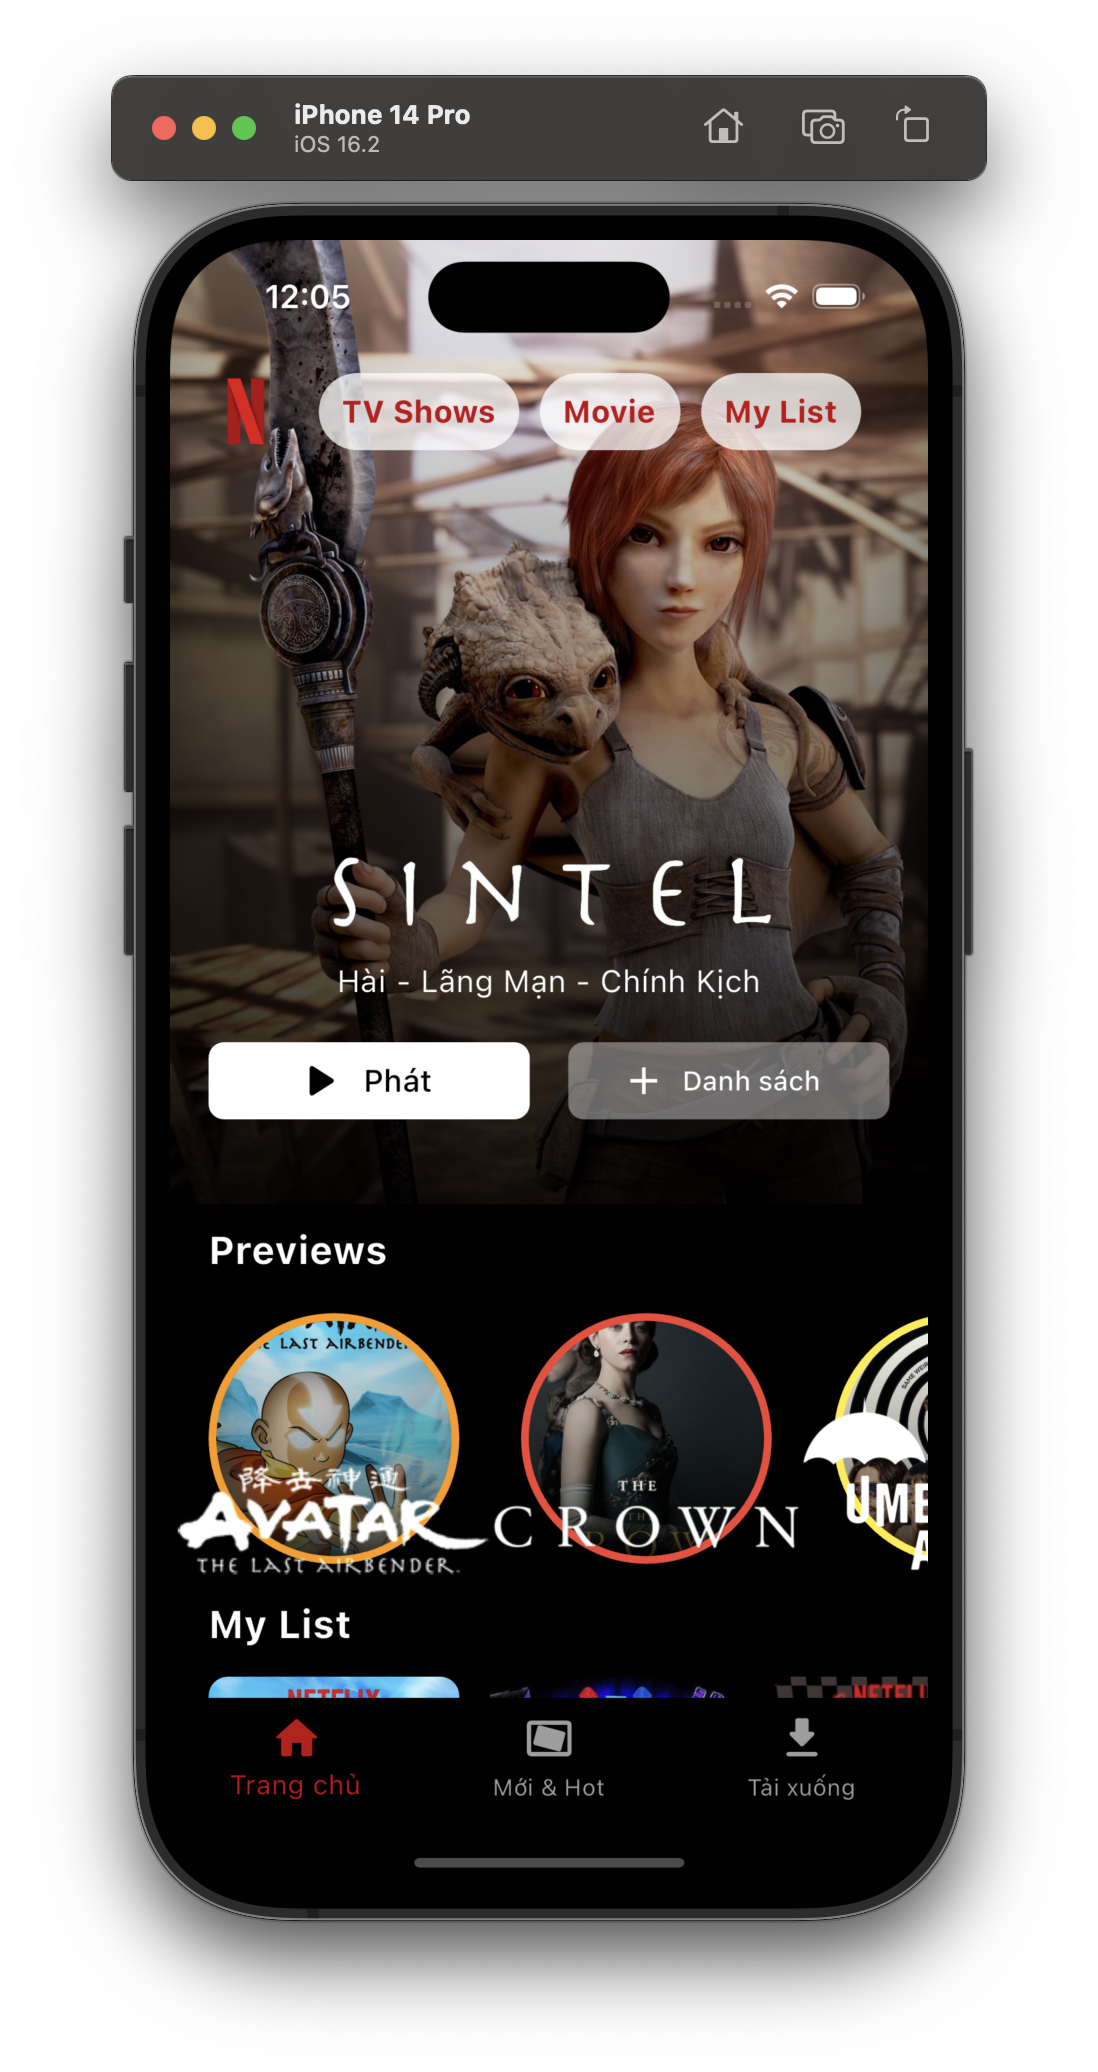
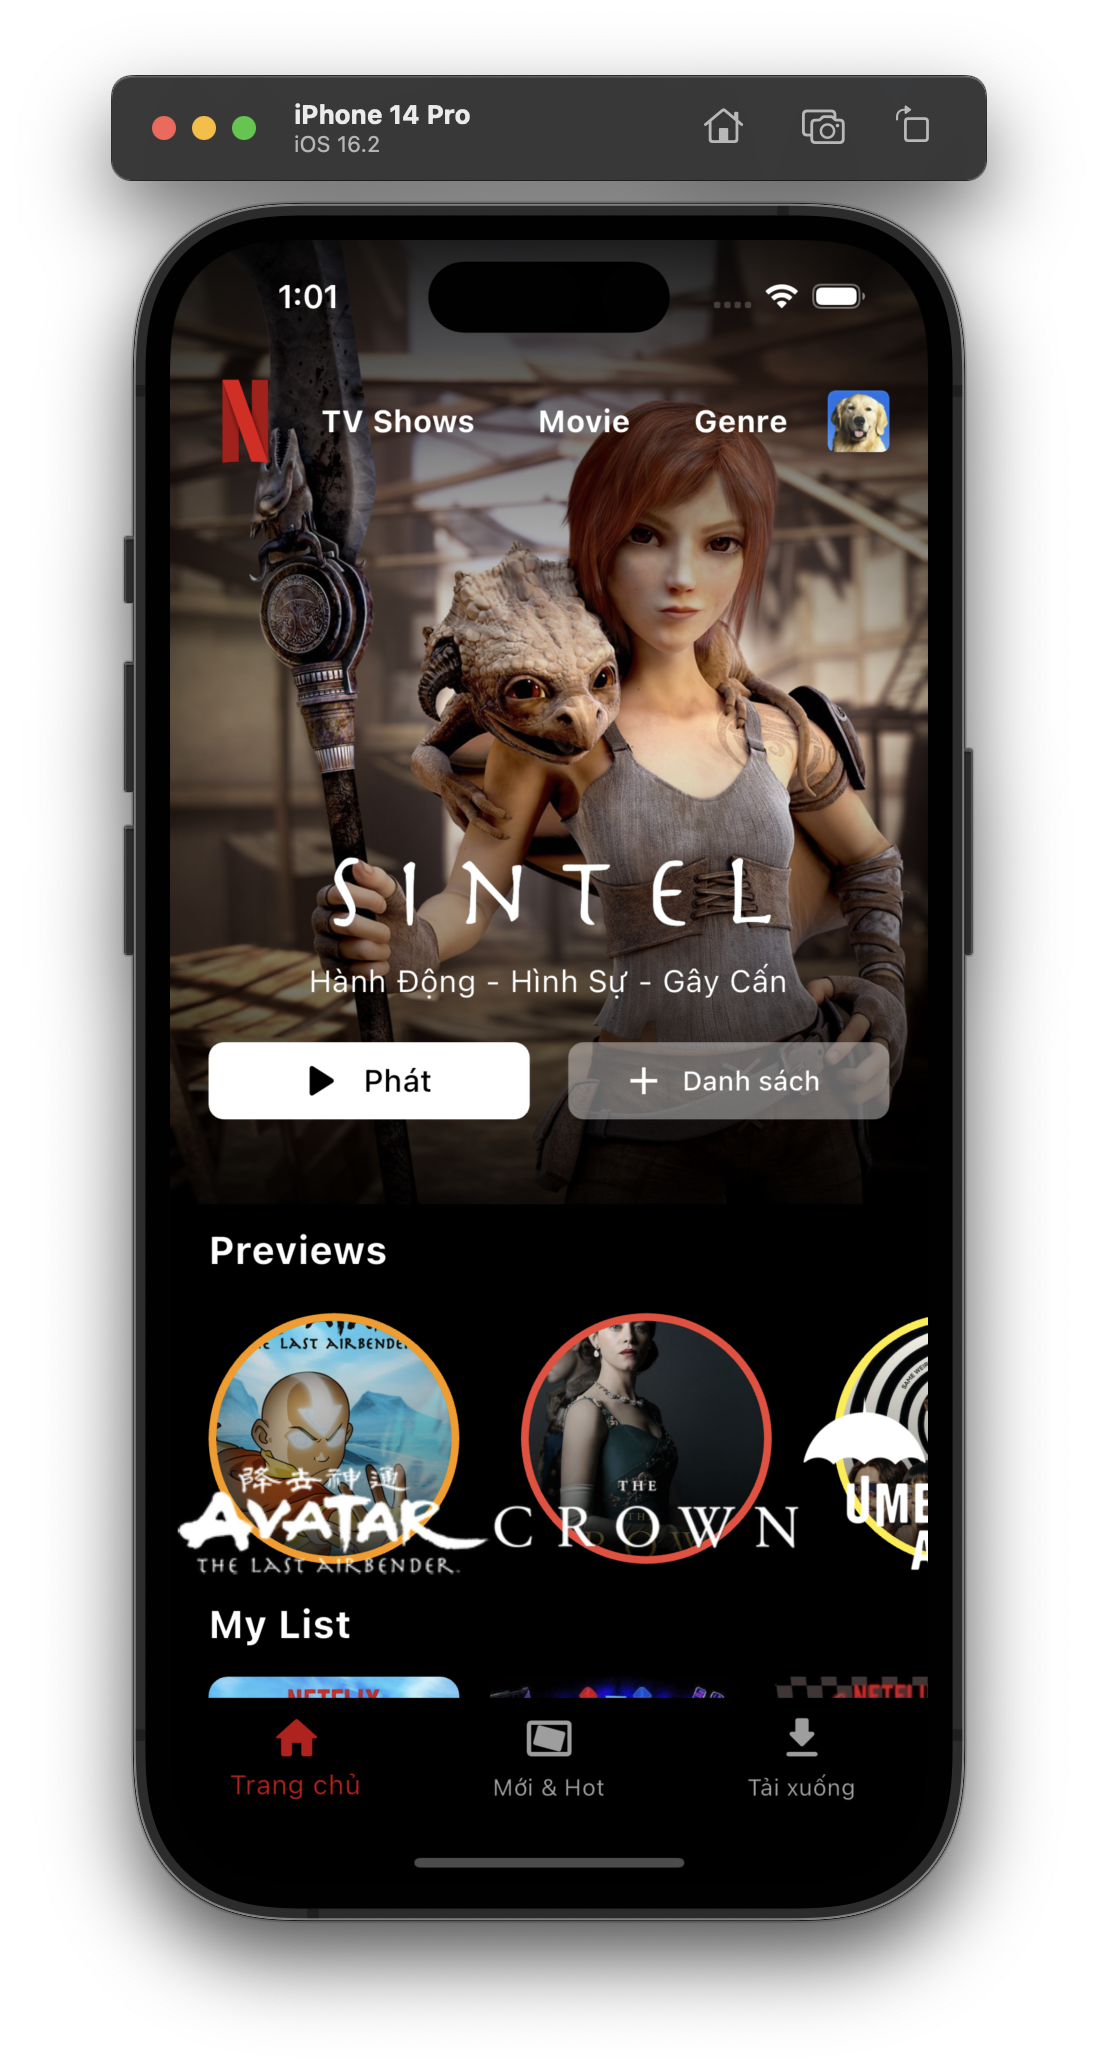
fix bug & UI

Changed region(s): [[0.1548, 0.0927, 0.867, 0.5251]]

diff --git a/lib/widgets/custom_app_bar.dart b/lib/widgets/custom_app_bar.dart
@@ -12,17 +12,14 @@ class CustomAppBar extends StatelessWidget {
   @override
   Widget build(BuildContext context) {
     return Container(
-      color:
-          Colors.black.withOpacity((scrollOffset / 350).clamp(0, 1).toDouble()),
-      padding: const EdgeInsets.symmetric(vertical: 10, horizontal: 24),
+      color: Colors.black.withOpacity(
+        (scrollOffset / 350).clamp(0, 1).toDouble(),
+      ),
+      padding: const EdgeInsets.symmetric(vertical: 10, horizontal: 20),
       child: SafeArea(
         child: Row(
           children: [
-            Image.asset(
-              Assets.netflixSymbol,
-              height: 80,
-            ),
-            const SizedBox(width: 12),
+            Image.asset(Assets.netflixSymbol),
             Expanded(
               child: Row(
                 mainAxisAlignment: MainAxisAlignment.spaceEvenly,
@@ -30,8 +27,17 @@ class CustomAppBar extends StatelessWidget {
                 children: [
                   _AppBarButton('TV Shows', scrollOffset, () {}),
                   _AppBarButton('Movie', scrollOffset, () {}),
-                  _AppBarButton('My List', scrollOffset, () {}),
+                  _AppBarButton('Genre', scrollOffset, () {}),
                 ],
+              ),
+            ),
+            ClipRRect(
+              borderRadius: BorderRadius.circular(4),
+              clipBehavior: Clip.antiAlias,
+              child: Image.network(
+                'https://i.imgur.com/6ZIfuJG.png',
+                width: 32,
+                height: 32,
               ),
             ),
           ],
@@ -54,14 +60,13 @@ class _AppBarButton extends StatelessWidget {
       height: 40,
       child: TextButton(
         onPressed: onTap,
-        style: TextButton.styleFrom(
-          backgroundColor: Colors.white.withOpacity(
-            1 - (scrollOffset / 350).clamp(0.25, 1).toDouble(),
-          ),
-        ),
+        style: TextButton.styleFrom(foregroundColor: Colors.white),
         child: Text(
           text,
-          style: const TextStyle(fontSize: 16, fontWeight: FontWeight.bold),
+          style: const TextStyle(
+            fontSize: 16,
+            fontWeight: FontWeight.bold,
+          ),
         ),
       ),
     );

diff --git a/lib/screens/auth/sign_in.dart b/lib/screens/auth/sign_in.dart
@@ -53,6 +53,7 @@ class _SignInState extends State<SignInScreen> {
         ScaffoldMessenger.of(context).showSnackBar(
           SnackBar(
             content: Text(error.message),
+            behavior: SnackBarBehavior.floating,
           ),
         );
       }
@@ -76,6 +77,7 @@ class _SignInState extends State<SignInScreen> {
 
   @override
   void dispose() {
+    _emailController.dispose();
     _passwordController.dispose();
     super.dispose();
   }
@@ -92,6 +94,7 @@ class _SignInState extends State<SignInScreen> {
             mainAxisSize: MainAxisSize.min,
             children: [
               TextFormField(
+                controller: _emailController,
                 decoration: const InputDecoration(
                   filled: true,
                   fillColor: Color.fromARGB(255, 51, 51, 51),
@@ -243,6 +246,9 @@ class _PasswordTextFieldState extends State<_PasswordTextField> {
       validator: (value) {
         if (value == null || value.isEmpty) {
           return 'Bạn chưa nhập Mật khẩu';
+        }
+        if (value.length < 6) {
+          return 'Mật khẩu gồm 6 ký tự trở lên.';
         }
         return null;
       },

diff --git a/lib/screens/auth/sign_up.dart b/lib/screens/auth/sign_up.dart
@@ -12,6 +12,7 @@ class SignUpScreen extends StatefulWidget {
 class _SignInState extends State<SignUpScreen> {
   final _formKey = GlobalKey<FormState>();
 
+  final _usernameControllber = TextEditingController();
   final _emailController = TextEditingController();
   final _passwordController = TextEditingController();
 
@@ -76,6 +77,7 @@ class _SignInState extends State<SignUpScreen> {
 
   @override
   void dispose() {
+    _usernameControllber.dispose();
     _emailController.dispose();
     _passwordController.dispose();
     super.dispose();
@@ -209,12 +211,16 @@ class _PasswordTextFieldState extends State<_PasswordTextField> {
         if (value == null || value.isEmpty) {
           return 'Bạn chưa nhập Mật khẩu';
         }
+        if (value.length < 6) {
+          return 'Mật khẩu gồm 6 ký tự trở lên.';
+        }
         return null;
       },
       onChanged: (value) {
         if (value.isEmpty) {
           _isShowPassword = false;
         }
+
         if (value.length <= 1) setState(() {});
       },
     );

diff --git a/lib/screens/home.dart b/lib/screens/home.dart
@@ -32,7 +32,7 @@ class _HomeScreenState extends State<HomeScreen> {
   Widget build(BuildContext context) {
     return Scaffold(
       appBar: PreferredSize(
-        preferredSize: Size(_screenSize.width, 60),
+        preferredSize: Size(_screenSize.width, 70),
         child: BlocBuilder<AppBarCubit, double>(
           builder: (context, scrollOffset) {
             return CustomAppBar(

diff --git a/lib/widgets/content_header.dart b/lib/widgets/content_header.dart
@@ -86,6 +86,7 @@ class _ContentHeaderState extends State<ContentHeader> {
               decoration: const BoxDecoration(
                 gradient: LinearGradient(
                   colors: [
+                    Colors.black87,
                     Colors.transparent,
                     Colors.black87,
                   ],
